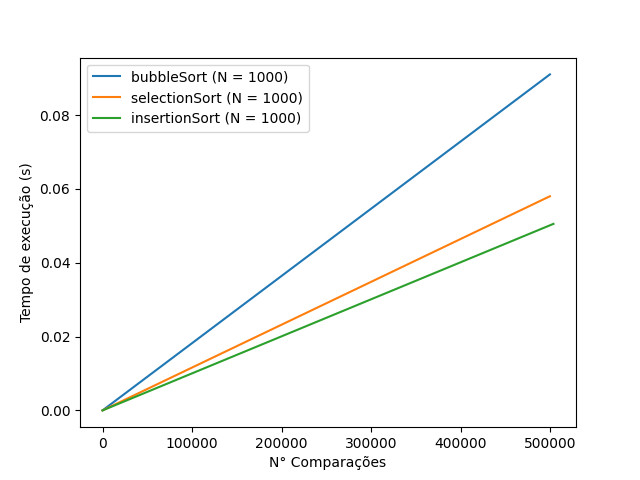
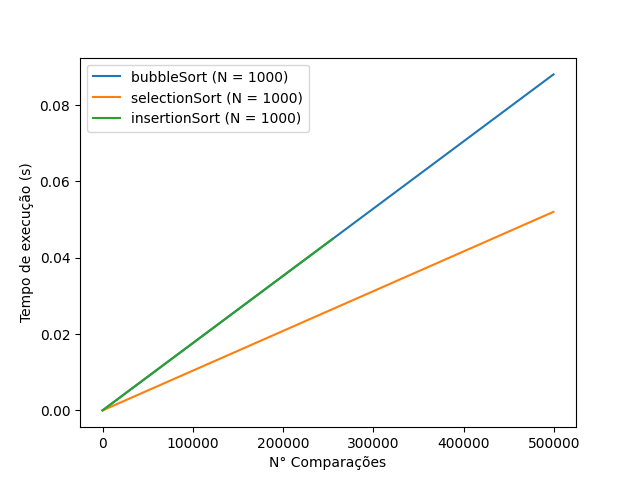
Adiciona novas possibilidades de eixo para os gráficos gerados

diff --git a/main.py b/main.py
@@ -47,6 +47,7 @@ class Test(object):
         entries = []
         if self.unique == True:
             entries = random.sample(range(-10000, 10000), self.n)
+            print(entries)
         else:
             i = 0
             while i < n:
@@ -86,29 +87,76 @@ class Test(object):
         print(self.algorithm.__name__, " --> Numbers to order: ", self.n, 'Execution Time: ', executionTime, "s", "Number of Comparisons: ", count)
         
     # draw a graph based on the tests runned
-    def drawGraph(self):
-        print('Graph Generated')
-        # x axis
-        x = list(self.comparisons)
-        # y axis
-        y = list(self.executionTimes)
-        
-        i = 0
-        while i < len(self.algorithms):
-            plt.plot(np.linspace(0,x[i], 100), np.linspace(0, y[i], 100), label=self.algorithms[i] + ' (N = ' +  str(self.sizes[i]) + ')')
-            i = i + 1
-        
-        plt.xlabel('N° Comparações')
-        plt.ylabel('Tempo de execução (s)')
-        
+    def drawGraph(self, axes):
+        print(self.comparisons)
+        if axes == 'execution time x number of comparisons':
+            # x axis
+            x = list(self.comparisons)
+            # y axis
+            y = list(self.executionTimes)
+            
+            # plot the data
+            i = 0
+            while i < len(self.algorithms):
+                plt.plot(np.linspace(0,x[i], 100), np.linspace(0, y[i], 100), label=self.algorithms[i] + ' (N = ' +  str(self.sizes[i]) + ')')
+                i = i + 1
+            
+            plt.xlabel('N° Comparações')
+            plt.ylabel('Tempo de execução (s)')
+            
+           
+        else:
+            bubbleSortData = {'x': [], 'y': []}
+            selectionSortData = {'x': [], 'y': []}
+            insertionSortData = {'x': [], 'y': []}
+            
+            if axes == 'number of comparisons x size':
+                i = 0
+                while i < len(self.algorithms):
+                    if(self.algorithms[i] == 'bubbleSort'):
+                        bubbleSortData['x'].append(self.sizes[i])
+                        bubbleSortData['y'].append(self.comparisons[i])
+                    elif(self.algorithms[i] == 'selectionSort'):
+                        selectionSortData['x'].append(self.sizes[i])
+                        selectionSortData['y'].append(self.comparisons[i])
+                    else:
+                        insertionSortData['x'].append(self.sizes[i])
+                        insertionSortData['y'].append(self.comparisons[i])
+                        
+                    i = i +1
+                    plt.xlabel('N° Comparações')
+                    plt.ylabel('Tamanho')
+            
+            elif axes == 'execution time x size':
+                i = 0
+                while i < len(self.algorithms):
+                    if(self.algorithms[i] == 'bubbleSort'):
+                        bubbleSortData['x'].append(self.sizes[i])
+                        bubbleSortData['y'].append(self.executionTimes[i])
+                    elif(self.algorithms[i] == 'selectionSort'):
+                        selectionSortData['x'].append(self.sizes[i])
+                        selectionSortData['y'].append(self.executionTimes[i])
+                    else:
+                        insertionSortData['x'].append(self.sizes[i])
+                        insertionSortData['y'].append(self.executionTimes[i])
+                        
+                    i = i +1
+                    plt.xlabel('Tempo de execução (s)')
+                    plt.ylabel('Tamanho')
+            
+            plt.plot(bubbleSortData['x'], bubbleSortData['y'], label='bubble sort')
+            plt.plot(selectionSortData['x'], selectionSortData['y'], label='selection sort')
+            plt.plot(insertionSortData['x'], insertionSortData['y'], label='insertion sort')
+            
         # unique = 'Unique' if self.unique else 'Non unique'
         # numberType = ' floats' if self.type == 'float' else ' integers' 
         # order =  ' numbers in ' + self.order + ' order'
         # plt.title(unique + numberType + order)
         
         plt.legend()
-        plt.show()
-     
+        plt.show()    
+        print('Graph Generated')
+
     # sets a new test based on the parameters 
     def setTest(self, n, unique, type, order, algorithm):
         self.n = n
@@ -118,21 +166,31 @@ class Test(object):
         self.algorithm = algorithm
 
 
-# Data for plotting
-#A ideia é que cada ponto da curva seja fotmado por um valor de n (tamanho do vetor)
-# e o respectivo tempo de processamento (ou numero de comparações).
+t = Test(50, False, 'integer', 'random', selectionSort)
+t.runTest()
+t.setTest(500, False, 'integer', 'random', selectionSort)
+t.runTest()
+t.setTest(5000, False, 'integer', 'random', selectionSort)
+t.setTest(50000, False, 'integer', 'random', selectionSort)
+t.runTest()
 
-#Como vocês precisarão analisar diferentes eixos, para cada eixo, vocês devem ter diferentes conjuntos de entrada, 
-# seja pelo tamanho, tipo ou configuração (ordenado, não ordenado ou quase ordenado), 
-# sendo que precisarão de datasets com tamanhos diferentes dentro de cada eixo.
+t.setTest(50, False, 'integer', 'random', bubbleSort)
+t.runTest()
+t.setTest(500, False, 'integer', 'random', bubbleSort)
+t.runTest()
+t.setTest(5000, False, 'integer', 'random', bubbleSort)
+t.runTest()
+t.setTest(50000, False, 'integer', 'random', bubbleSort)
+t.runTest()
 
-t = Test(10000, True, 'integer', 'ascending', bubbleSort)
+t.setTest(50, False, 'integer', 'random', insertionSort)
 t.runTest()
-t.setTest(10000, True, 'integer', 'ascending', selectionSort)
+t.setTest(500, False, 'integer', 'random', insertionSort)
 t.runTest()
-t.setTest(10000, True, 'integer', 'ascending', insertionSort)
+t.setTest(5000, False, 'integer', 'random', insertionSort)
 t.runTest()
-t.setTest(10000, True, 'integer', 'ascending', bogoSort)
+t.setTest(50000, False, 'integer', 'random', insertionSort)
 t.runTest()
-t.drawGraph()
+
+t.drawGraph('execution time x size')
 
